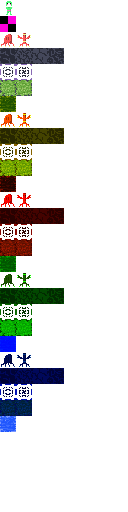
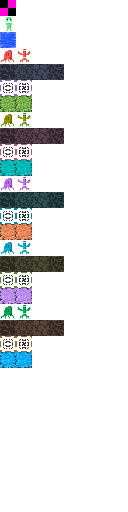
Update PyGameDisplay sprite system

Changed region(s): [[0.0, 0.0, 0.5, 0.8438]]

diff --git a/PyGameClient/Displayer/PyGameDisplay.py b/PyGameClient/Displayer/PyGameDisplay.py
@@ -86,12 +86,12 @@ class PyGameDisplay(object):
         name = 'fallback'
         img_idx = 0
         if not ent: return
-        if ent.type != 'player' and ent.type != 'fallback':
+        if ent.type not in IMAGES.keys():
             name = f'{ent.region}_{ent.type}'
         else:
             name = ent.type
         if name in s.images.keys():
-            img_idx = int(noise_value * IMAGES[name][0])
+            img_idx = int(noise_value * len(s.images[name]))
         s.display.blit(s.images[name][img_idx], (pos * s.tile_size).get_tuple())
 
     def draw_hud(s, info_list):
@@ -169,32 +169,51 @@ class PyGameDisplay(object):
         if keys[K_DOWN] or keys[K_s]: res.append('DOWN')
         return res
 
-    def load_available_images(s, delta):
+    def load_available_images(s, sprite_size):
         """ Load the master image with all the sprites, and extract each small one,
         create its rotated versions if specified """
-        master_img = pygame.image.load(f'Displayer/images/{delta}px.png')
-        # For each image family (type) defined in config
-        for y_idx, image_item in enumerate(IMAGES.items()):
-            tmp_type_images = []
-            # For each item of a specific family
-            for x_idx in range(image_item[1][0]):
-                # Load the item from the master image (which contains all the sprites)
-                subsurface = master_img.subsurface((x_idx * delta, y_idx * delta, delta, delta))
-                # Scale it to the tile size
-                subsurface = pygame.transform.scale(subsurface, (s.tile_size, s.tile_size))
-                # Transform it to a pygame friendly format (quicker drawing)
-                subsurface.convert()
-                tmp_type_images.append(subsurface)
-            # If rotation is activated for this family of sprites, create and load
-            # all rotated versions
-            if image_item[1][1]:
-                rotations = []
-                for image in tmp_type_images:
-                    for angle in [90, 180, 270]:
-                        rotations.append(pygame.transform.rotate(image, angle))
-                tmp_type_images += rotations
-                image_item[1][0] *= 4
-            s.images[image_item[0]] = tmp_type_images
+        master_img = pygame.image.load(f'Displayer/images/{sprite_size}px.png')
+        y_idx = 0
+        # Load the non region specific sprites first (player etc)
+        # which are defined in IMAGES (config.py)
+        for image_item in IMAGES.items():
+            s.load_image_line(master_img, sprite_size, y_idx, image_item)
+            y_idx += 1
+        # Now load region specific sprites (which change depending on the region)
+        # defined in regions_nbr (config.py)
+        # The prefix argument is needed to add the region to the asset (region 1 -> 1_ + spriteName)
+        # WARNING: The number of regions (5) is fixed here!
+        for region in range(5):
+            for image_item in REGIONS_IMAGES.items():
+                s.load_image_line(master_img, sprite_size, y_idx, image_item, f'{region}_')
+                y_idx += 1
+
+    def load_image_line(s, master_img, sprite_size, y_idx, image_item, prefix=''):
+        """ Adds an image family (if multiples sprites are defined for an entity) """
+        tmp_type_images = []
+        # For each item of a specific family
+        for x_idx in range(image_item[1][0]):
+            # Load the item from the master image (which contains all the sprites)
+            subsurface = master_img.subsurface((
+                                            x_idx * sprite_size,
+                                            y_idx * sprite_size,
+                                            sprite_size, sprite_size))
+            # Scale it to the tile size
+            subsurface = pygame.transform.scale(subsurface, (s.tile_size, s.tile_size))
+            # Transform it to a pygame friendly format (quicker drawing)
+            subsurface.convert()
+            tmp_type_images.append(subsurface)
+        # If rotation is activated for this family of sprites, create and load
+        # all rotated versions
+        if image_item[1][1]:
+            rotations = []
+            for image in tmp_type_images:
+                for angle in [90, 180, 270]:
+                    rotations.append(pygame.transform.rotate(image, angle))
+            tmp_type_images += rotations
+        name = prefix + image_item[0]
+        print(f'Added sprite {name}')
+        s.images[name] = tmp_type_images
 
     def handle_sleep(s):
         """ Maintains the framerate """

diff --git a/PyGameClient/MapGenerator/MapGenerator.py b/PyGameClient/MapGenerator/MapGenerator.py
@@ -49,22 +49,36 @@ class MapGenerator(object):
                                         x=tile_pos.x / s.config['noise_scale'],
                                         y=tile_pos.y / s.config['noise_scale'])
                 noise_value = (noise_value + 1) / 2  # To get a value between 0 and 1
-                if random.randint(0, 3):
+                value = random.randint(0, 5)
+                if value == 0:
+                    tmp_line.append(Tile(
+                                    noise_value,
+                                    None,
+                                    Entity('wall', True, s.get_pos_region(tile_pos))))
+                elif value == 1:
                     tmp_line.append(Tile(
                                         1 - noise_value,
-                                        Entity('floor', False, s.get_pos_region(tile_pos)),
+                                        Entity('grass', False, s.get_pos_region(tile_pos)),
+                                        None))
+                elif value == 2:
+                    tmp_line.append(Tile(
+                                        1 - noise_value,
+                                        Entity('water', True, s.get_pos_region(tile_pos)),
                                         None))
                 else:
                     tmp_line.append(Tile(
-                                        noise_value,
-                                        None,
-                                        Entity('wall', True, s.get_pos_region(tile_pos))))
+                                    1 - noise_value,
+                                    Entity('floor', False, s.get_pos_region(tile_pos)),
+                                    None))
             chunk.append(tmp_line)
 
         # DEBUGGING, placing player to have something on screen
         middle_x = anchor_pos.x + s.config['chunk_size'] // 2
         middle_y = anchor_pos.y + s.config['chunk_size'] // 2
-        chunk[middle_y][middle_x].top_ent = Player('player', True)
+        chunk[middle_y][middle_x] = Tile(
+                                        0.7,
+                                        Entity('floor', False, s.get_pos_region(Pos(x=middle_x, y=middle_y))),
+                                        Player('player', True))
 
         return chunk
 

diff --git a/PyGameClient/Displayer/config.py b/PyGameClient/Displayer/config.py
@@ -9,37 +9,14 @@ MEDIUM_BLUE = (41, 128, 185)
 
 IMAGES = {
     # Name, nbr of sprites, allow sprite rotation
-    'player': [1, False],
     'fallback': [1, False],
+    'player': [1, False],
+    'water': [1, False],
+}
 
-    '0_enemy': [2, False],
-    '0_floor': [4, True],
-    '0_wall': [2, True],
-    '0_grass': [2, True],
-    '0_water': [1, False],
-
-    '1_enemy': [2, False],
-    '1_floor': [4, True],
-    '1_wall': [2, True],
-    '1_grass': [2, True],
-    '1_water': [1, False],
-
-    '2_enemy': [2, False],
-    '2_floor': [4, True],
-    '2_wall': [2, True],
-    '2_grass': [2, True],
-    '2_water': [1, False],
-
-    '3_enemy': [2, False],
-    '3_floor': [4, True],
-    '3_wall': [2, True],
-    '3_grass': [2, True],
-    '3_water': [1, False],
-
-    '4_enemy': [2, False],
-    '4_floor': [4, True],
-    '4_wall': [2, True],
-    '4_grass': [2, True],
-    '4_water': [1, False],
-
+REGIONS_IMAGES = {
+    'enemy': [2, False],
+    'floor': [4, True],
+    'wall': [2, True],
+    'grass': [2, True],
 }

diff --git a/PyGameClient/GameHandler.py b/PyGameClient/GameHandler.py
@@ -12,8 +12,8 @@ class GameHandler(object):
         random.seed(seed)
         ### MAP ###
         map_config = {
-            'map_size': 20,
-            'chunk_size': 20,
+            'map_size': 64,
+            'chunk_size': 64,
             'seed': seed,
             'noise_scale': 5,
         }
